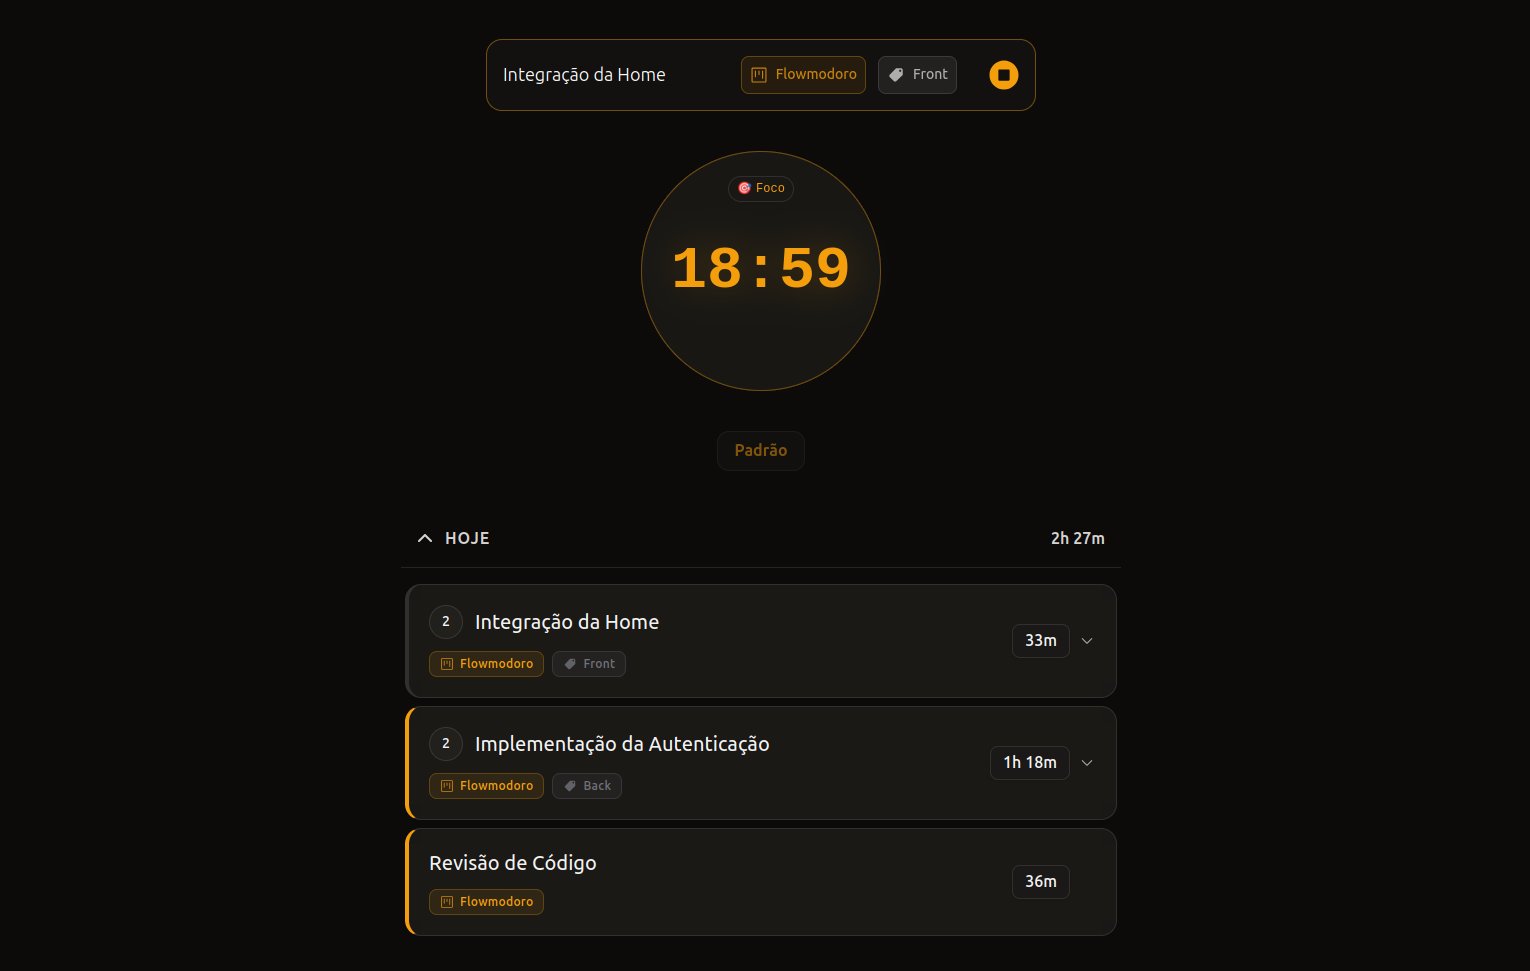
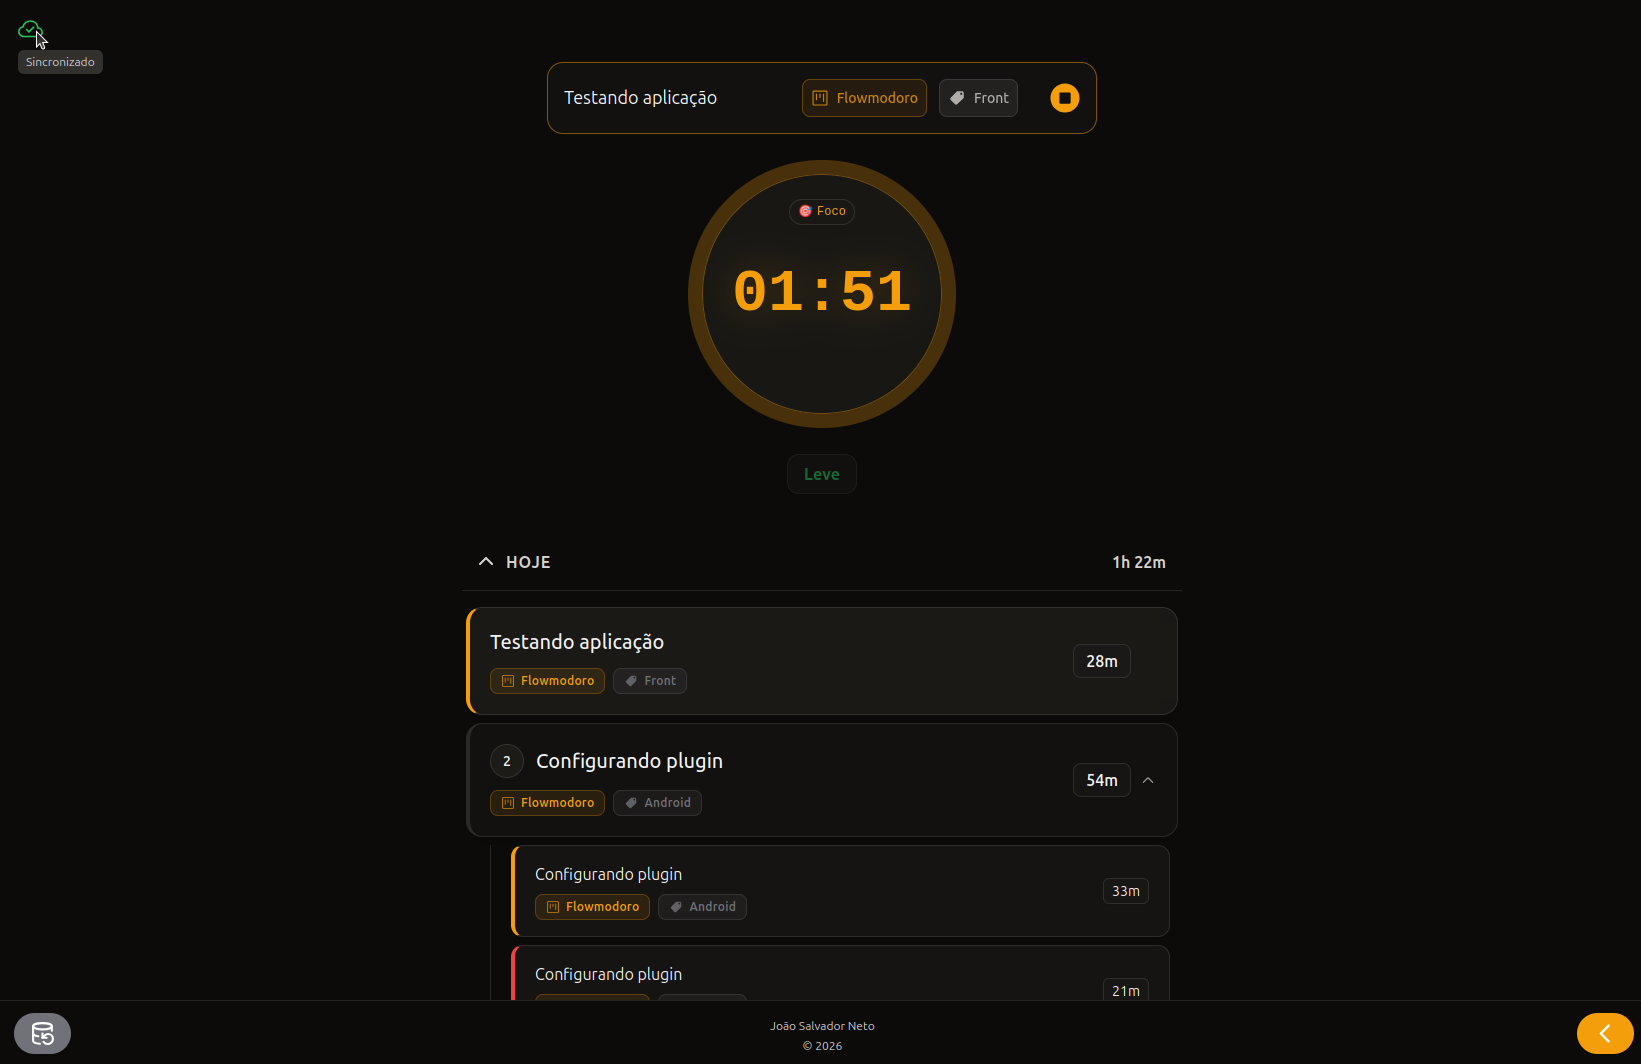
docs(readme): update project screenshot

diff --git a/README.md b/README.md
@@ -55,6 +55,12 @@ A aplicação funciona tanto em desktop quanto em dispositivos móveis e possui 
 
 Em navegadores como o Chrome no celular, é possível instalar a aplicação para que ela fique disponível como um app nativo no dispositivo.
 
+## Aplicação Nativa via Capacitor
+
+A aplicação também possui suporte a dispositivos Android por meio do Capacitor.
+
+A versão nativa oferece funcionalidades adicionais, como a execução do timer em segundo plano por meio de um Foreground Service e um alarme para notificar o término do período de descanso.
+
 ## 🛠 Tecnologias
 
 ### Backend
@@ -71,6 +77,10 @@ Em navegadores como o Chrome no celular, é possível instalar a aplicação par
 - **IndexedDB** com **Dexie** para armazenamento local
 - **React Query** para gerenciamento de estado
 - **Axios** para comunicação com a API
+
+### Android
+- **Capacitor** para desenvolvimento de aplicativo nativo
+- **Kotlin** para criação de plugins nativos
 
 ## 🚀 Deploy
 
